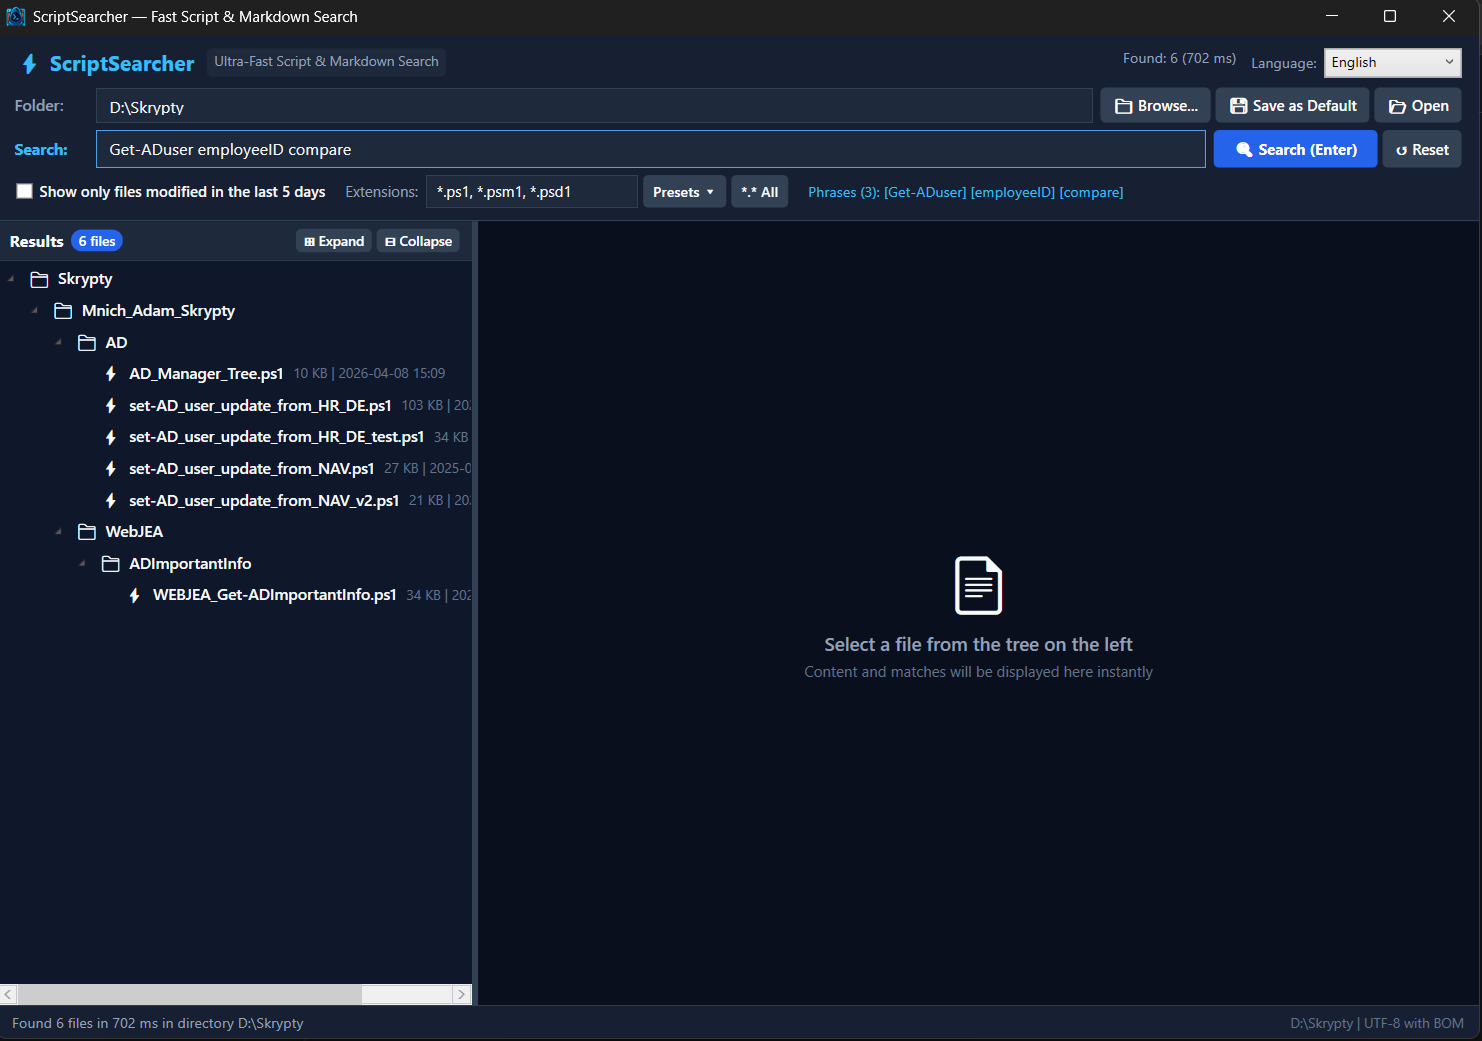
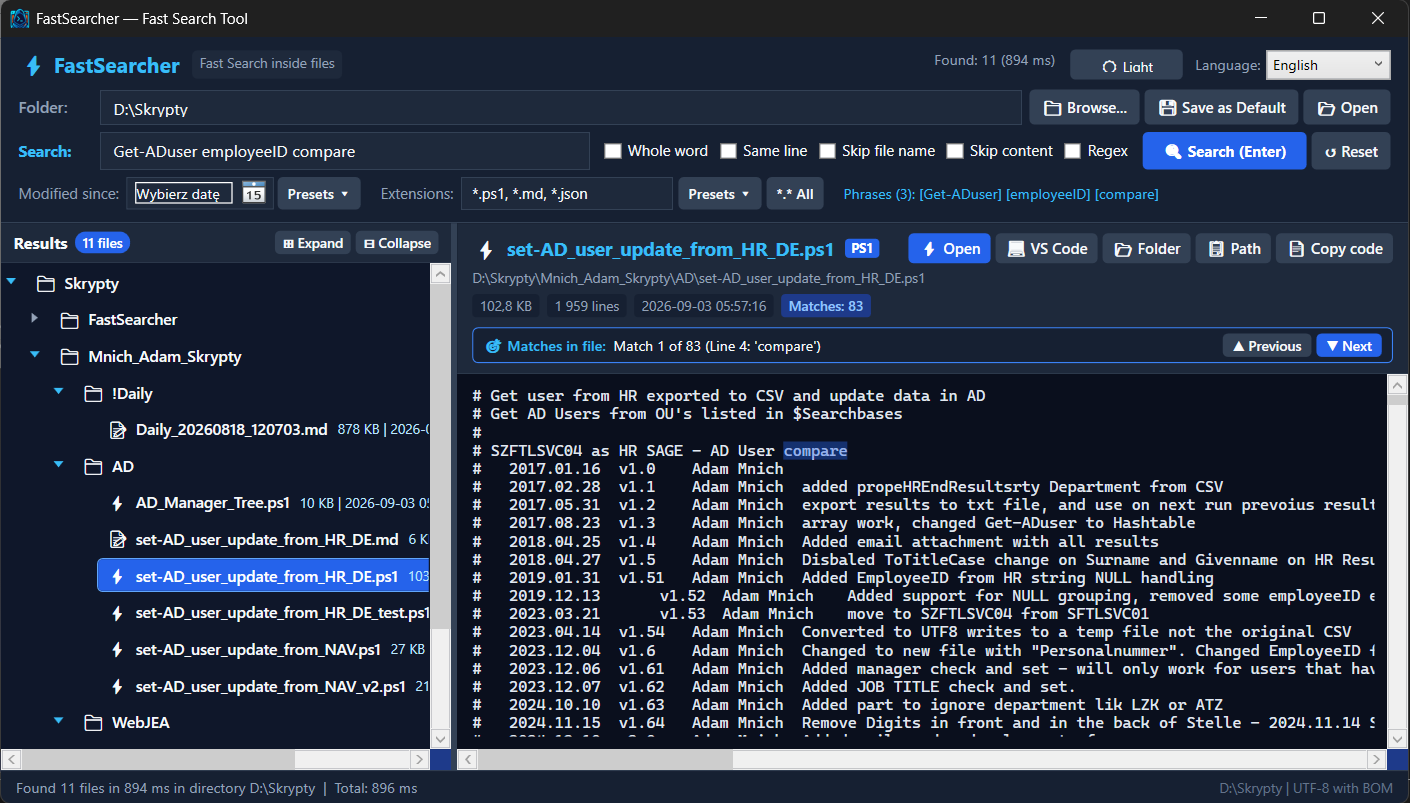
Refactor code structure for improved readability and maintainability

diff --git a/README.md b/README.md
@@ -28,7 +28,7 @@ Powered by an in-memory compiled C# parallel search engine ([FastSearchEngineV2]
 
 ## Key Features
 
-### 1. Ultra-Fast Multi-Threaded C# Engine (`FastSearchEngineV2`)
+### 1. Fast Multi-Threaded C# Engine (`FastSearchEngineV2`)
 - **Multi-Core Parallelism**: Uses `Parallel.ForEach` across all available logical CPU cores (`Environment.ProcessorCount`) to inspect file contents concurrently.
 - **Sub-Second Latency**: Traverses and searches repositories of 6,000+ files in approximately **300–600 ms**.
 - **Digital Signature Stripping**: Automatically detects and excludes cryptographic signature blocks (`# SIG # Begin signature block`) from search evaluations. This prevents false positive hits on common short acronyms (e.g., `BC`, `AD`, `SQL`, `NAV`) caused by random Base64-encoded digital certificates.
@@ -180,7 +180,7 @@ The script compiles specialized C# classes using `Add-Type` at startup:
 
 ```
 +-------------------------------------------------------------------------------------------------------+
-| ⚡ FastSearcher  [Ultra-Fast Script & Markdown Search]             Ready (45 files / 312 ms)  [EN v] |
+| ⚡ FastSearcher  [Fast Search]                                    Ready (45 files / 312 ms)  [EN v] |
 +-------------------------------------------------------------------------------------------------------+
 | Folder:     [ D:\Skrypty                                     ] [📁 Browse...] [💾 Set Default] [📂 Open] |
 | Search:     [ BC "AD compare"  [x]] [ ] Whole [ ] Same line [ ] Skip name [ ] Skip cont [🔍 Search] [↺ Reset] |
